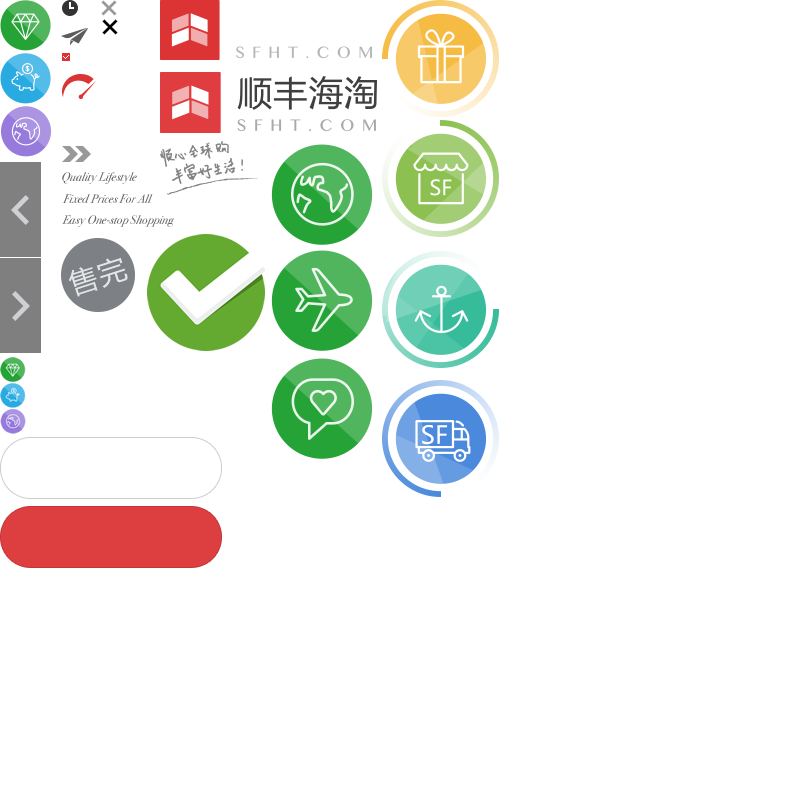
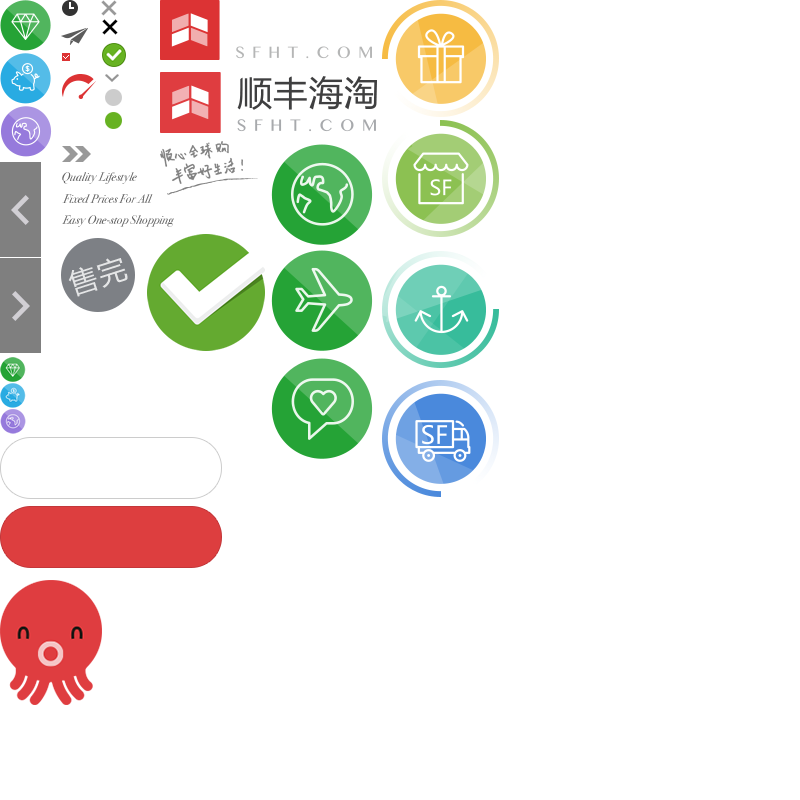
按钮状态

Changed region(s): [[0.0, 0.7188, 0.125, 0.875], [0.125, 0.0312, 0.1562, 0.1562]]

diff --git a/prototype/order.html b/prototype/order.html
@@ -1,0 +1,160 @@
+<!DOCTYPE html PUBLIC "-//W3C//DTD XHTML 1.0 Transitional//EN" "http://www.w3.org/TR/xhtml1/DTD/xhtml1-transitional.dtd">
+<html xmlns="http://www.w3.org/1999/xhtml">
+<head>
+<meta http-equiv="Content-Type" content="text/html; charset=utf-8" />
+<meta name="viewport" content="width=device-width">
+<title>登陆顺丰海淘</title>
+<link href="css/common.css" rel="stylesheet" type="text/css" />
+<link href="css/order.css" rel="stylesheet" type="text/css" />
+</head>
+<body>
+  <!--头部-->
+  <div class="ph">
+    <div class="nav">
+      <div class="pm clearfix">
+
+        <ul class="nav-c1 fl">
+          <li class="li1"><a href="">顺丰海淘</a></li>
+          <li class="li1"><a href="">限时特卖</a></li>
+          <li class="li1"><a href="">急速海淘</a></li>
+        </ul>
+        <ul class="nav-c2 fr">
+          <li class="li1">
+            <a href="">账户<span class="icon icon16"></span></a>
+            <ul>
+              <li class="li2"><a href="">个人中心</a></li>
+              <li class="li2"><a href="">退出</a></li>
+            </ul>
+          </li>
+          <li class="li1"><a href="">我的订单</a></li>
+        </ul>
+  
+      </div>
+    </div>
+    <!--步骤-->
+    <div class="step">
+      <div class="pm">
+        <ul>
+          <li class="active"><span class="icon icon31"></span>01 填写并核对订单信息<div class="line"></div></li>
+          <li><span class="icon icon31"></span>02 成功提交订单<div class="line"></div></li>
+          <li><span class="icon icon31"></span>03 订单支付成功</li>
+        </ul>
+      </div>
+    </div>
+    <!--步骤-->
+
+    
+
+  </div>
+  <!--头部-->
+  <div class="pb">
+    <div class="pm">
+      <!--订单-->
+      <div class="order">
+        <h2>选择收货人</h2>
+        <div class="order-r1">
+          <div class="order-r1c1 fl">
+            <span class="icon icon29"></span>
+            <span>黄小牙</span>
+            <span>身份证号：350***********6233</span>
+            <span>联系方式：13699839901</span>
+          </div>
+          <div class="order-r1c2 fl">
+            <a href="">修改</a>
+            <span class="icon icon30"></span>
+          </div>
+            
+        </div>
+
+        <h2>选择收货地址</h2>
+        <div class="order-r1">
+          <div class="order-r1c1 fl">
+            <span class="icon icon29"></span>
+            <span>上海</span>
+            <span>上海市</span>
+            <span>虹梅路2007号上海远中产业园1号楼8楼</span>
+            <span>200002</span>
+          </div>
+          <div class="order-r1c2 fl">
+            <a href="">修改</a>
+            <span class="icon icon30"></span>
+          </div>
+            
+        </div>
+      </div>
+      <!--订单-->
+    </div>
+  </div>
+  <!--尾部-->
+  <div class="pf">
+    <!--回到顶部-->
+    <a href="#" class="btn btn-top"><span class="icon icon7"></span></a>
+    <!--回到顶部-->
+    <div class="footer1">
+      <div class="pm">
+        <ul class="clearfix">
+          <li>
+            <span class="icon icon12"></span>
+            <h2>海外商家发货</h2>
+            <span class="icon icon8"></span>
+          </li>
+          <li>
+            <span class="icon icon13"></span>
+            <h2>顺丰海外收件</h2>
+            <span class="icon icon8"></span>
+          </li>
+          <li>
+            <span class="icon icon14"></span>
+            <h2>中国海关清关</h2>
+            <span class="icon icon8"></span>
+          </li>
+
+          <li>
+            <span class="icon icon15"></span>
+            <h2>顺丰国内派送</h2>
+          </li>
+        </ul>
+      </div>
+    </div>
+
+    <div class="footer2">
+      <div class="pm">
+        <div class="footer2-c1 fl">
+          <span class="icon icon9"></span>
+        </div>
+        <div class="footer2-c2 fl">
+          <dl>
+            <dt>顺丰海淘</dt>
+            <dd><a href="">关于我们</a></dd>
+            <dd><a href="">法律政策</a></dd>
+            <dd><a href="">联系我们</a></dd>
+          </dl>
+          <dl>
+            <dt>新手指南</dt>
+            <dd><a href="">正品保证</a></dd>
+            <dd><a href="">购物指南</a></dd>
+            <dd><a href="">费用说明</a></dd>
+          </dl>
+          <dl>
+            <dt>帮助中心</dt>
+            <dd><a href="">实名认证</a></dd>
+            <dd><a href="">签收说明</a></dd>
+            <dd><a href="">运输失效</a></dd>
+          </dl>
+        </div>
+        <div class="footer2-c3 fr">
+          <div class="phone">400-123-456123</div>
+          <div class="time">周一至周日 8:00 - 18:00</div>
+        </div>
+      </div>
+        
+    </div>
+
+  </div>
+  <!--尾部-->
+  <script src="js/jquery-1.11.1.min.js"></script>
+  <script src="js/index.js"></script>
+</body>
+
+<script type="text/javascript">var cnzz_protocol = (("https:" == document.location.protocol) ? " https://" : " http://");document.write(unescape("%3Cscript src='" + cnzz_protocol + "v1.cnzz.com/z_stat.php%3Fid%3D1253511102%26show%3Dpic1' type='text/javascript'%3E%3C/script%3E"));</script>
+</html>

diff --git a/prototype/icon.html b/prototype/icon.html
@@ -60,6 +60,11 @@
       <span class="icon icon26">商品库存不足</span>
       <span class="icon icon26">商品限购2件</span>
       <span class="icon icon27"></span>
+      <span class="icon icon28"></span>
+      <span class="icon icon29"></span>
+      <span class="icon icon30"></span>
+      <span class="icon icon31"></span>
+      <span class="icon icon31-1"></span>
 
       <h2>btn</h2>
       <a href="#" class="btn btn-top"><span class="icon icon7"></span></a>
@@ -70,7 +75,8 @@
       <a href="#" class="btn btn-buy disable">立即购买</a>
       <a href="#" class="btn btn-send">发送验证码</a>
       <a href="#" class="btn btn-send disable">发送验证码</a>
-      <a href="#" class="btn btn-register">同意协议并注册</a>
+      <a href="#" class="btn btn-send btn-register">同意协议并注册</a>
+      <a href="#" class="btn btn-send btn-register disable">同意协议并注册</a>
       <a href="#" class="btn btn-close">关闭</a>
 
       <label class="btn btn-brand">UGG<input type="radio" name="brank" value="UGG" class="visuallyhidden" /><div class="detail">UGG  起源于1978年南加州海滩的UGG品牌一直是美国高端时尚生活方式的国际知名品牌。<br />材质上乘，工艺精湛，带来一年四季的鞋履、服饰、配饰、箱包及家居类全线产品。<span class="icon icon16-3"><span class="icon icon16-4"></span></span></div></label>

diff --git a/prototype/css/common.css b/prototype/css/common.css
@@ -263,7 +263,30 @@ img{vertical-align: middle;}
 	height: 117px;
 	background-position: -147px -234px;
 }
-
+.icon28{
+	width: 102px;
+	height: 125px;
+	background-position: 0 -580px;
+}
+.icon29{
+	width: 24px;
+	height: 24px;
+	background-position: -102px -43px;
+}
+.icon30{
+	width: 14px;
+	height: 8px;
+	background-position: -105px -74px;
+}
+.icon31,
+.icon31-1{
+	width: 17px;
+	height: 17px;
+	background-position: -105px -89px;
+}
+.icon31-1{
+	background-position: -105px -112px;
+}
 /*btn*/
 .btn{
 	display: inline-block;
@@ -504,21 +527,8 @@ img{vertical-align: middle;}
 }
 .btn-register{
 	width: 100%;
-	height: 40px;
-	line-height: 40px;
-	color: #fff;
-	background: #67b222;
-	border-radius: 2px;
-	box-shadow: 0 2px 1px rgba(4,0,0,0.3);
 	text-align: center;
-	border:1px solid #448509;
-}
-.btn-register:hover{
-	color: #fff;
-	background: #6ec125;
-}
-.btn-register:active{
-	background: #5fa620;
+	padding: 0;
 }
 .btn-brand{
 	*position: relative;
@@ -739,4 +749,5 @@ body{
 	background: #000;
 	opacity: 0.5;
 	filter:alpha(opacity=50);
+	z-index: 3;
 }

diff --git a/prototype/css/order.css b/prototype/css/order.css
@@ -1,0 +1,32 @@
+/*步骤*/
+.step{
+	background: #fff;
+	padding-bottom: 50px;
+	padding-top: 65px;
+}
+.step li{
+	position: relative;
+	display: inline-block;
+	text-align: center;
+	width: 372px;
+	font-size: 14px;
+}
+.step .line{
+	width: 331px;
+	height: 4px;
+	background: #ccc;
+	position: absolute;
+	left: 209px;
+	top: 7px;
+}
+.step .icon{
+	display: block;
+	margin: 0 auto 21px; 
+}
+.step .active{
+	color: #67b222;
+}
+.step .active .icon{
+	background-position: -105px -112px;
+}
+/*订单*/

diff --git a/prototype/css/detail.css b/prototype/css/detail.css
@@ -202,6 +202,9 @@
 .goods .icon26{
 	visibility: hidden;
 }
+.goods .btn{
+	margin: 0 3px;
+}
 /*推荐商品*/
 .recommend{
 	padding-bottom: 48px;
